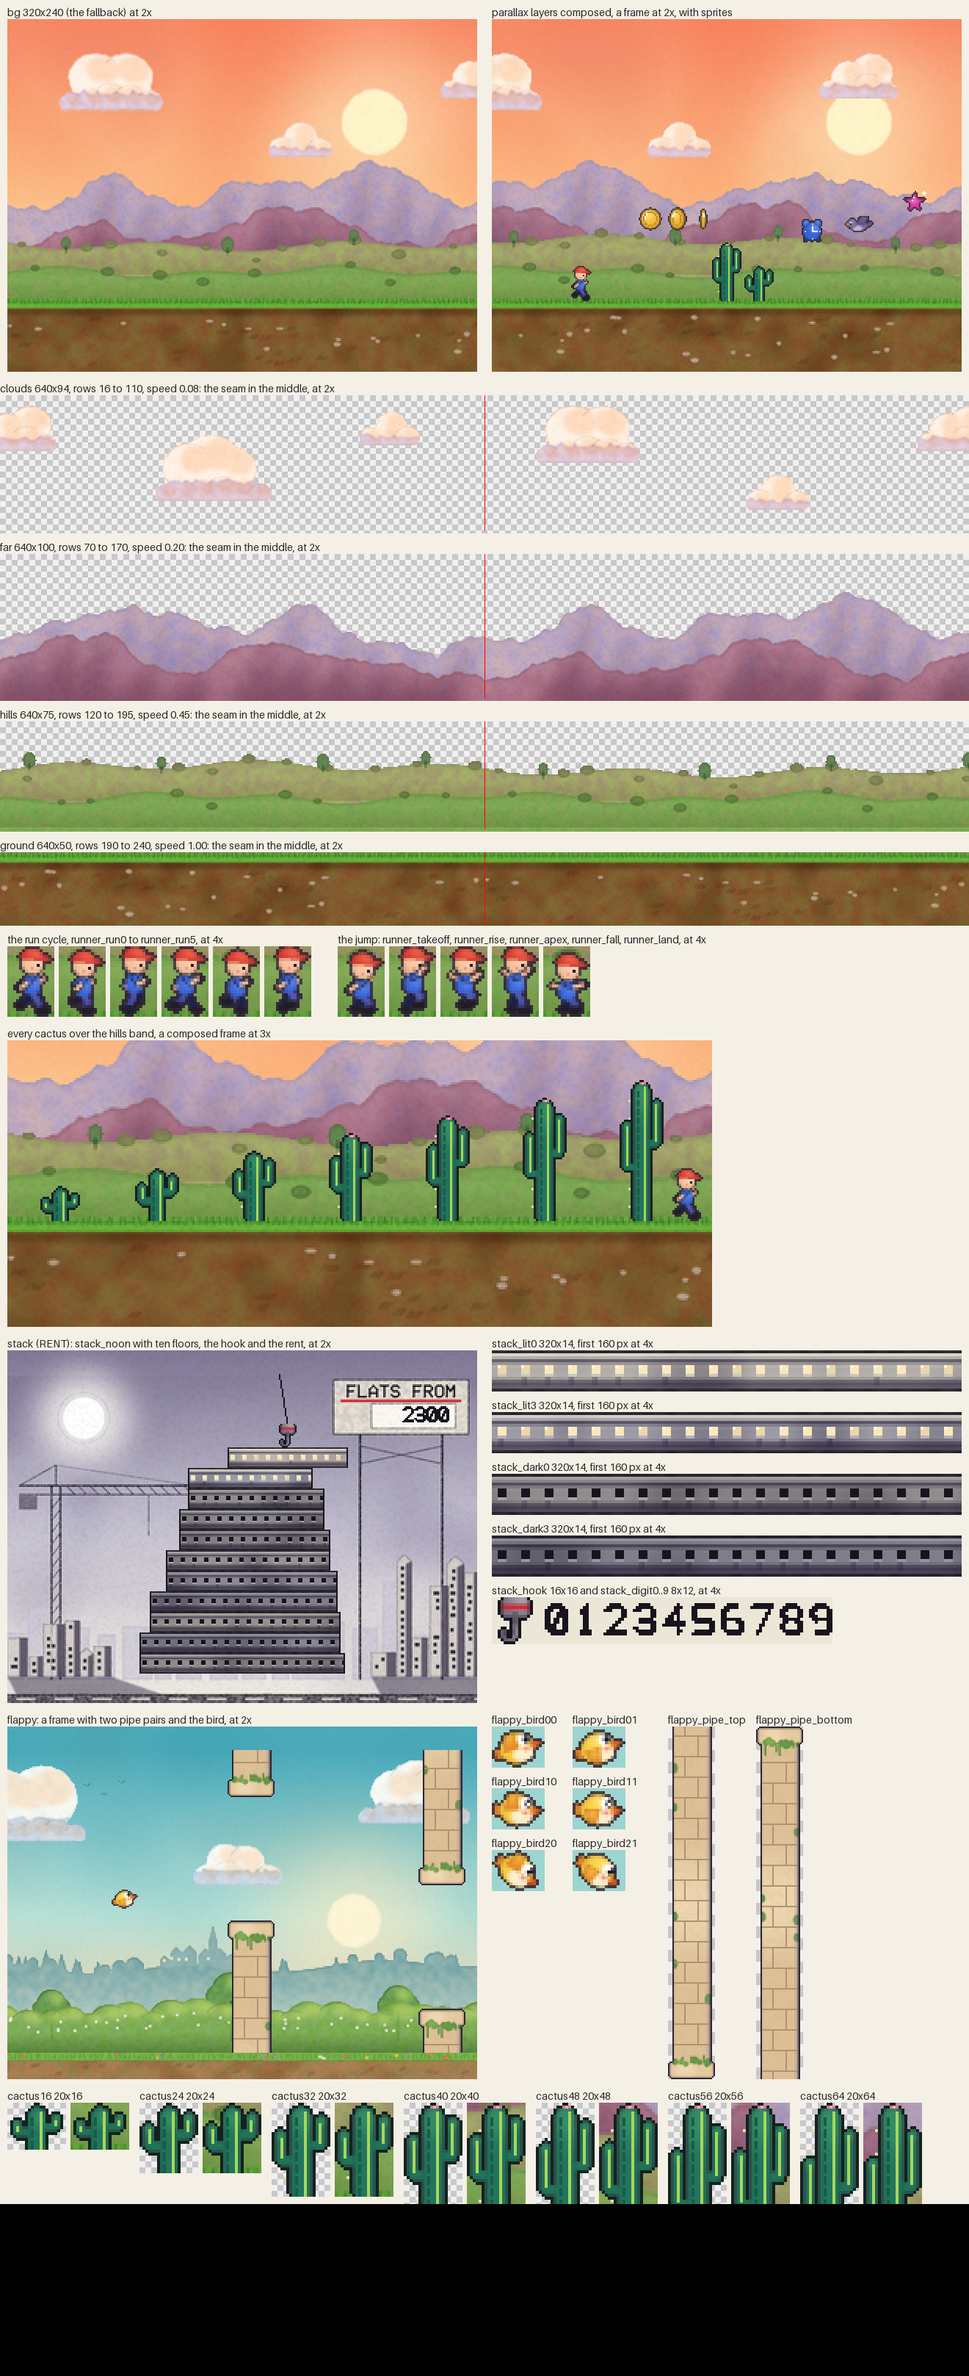
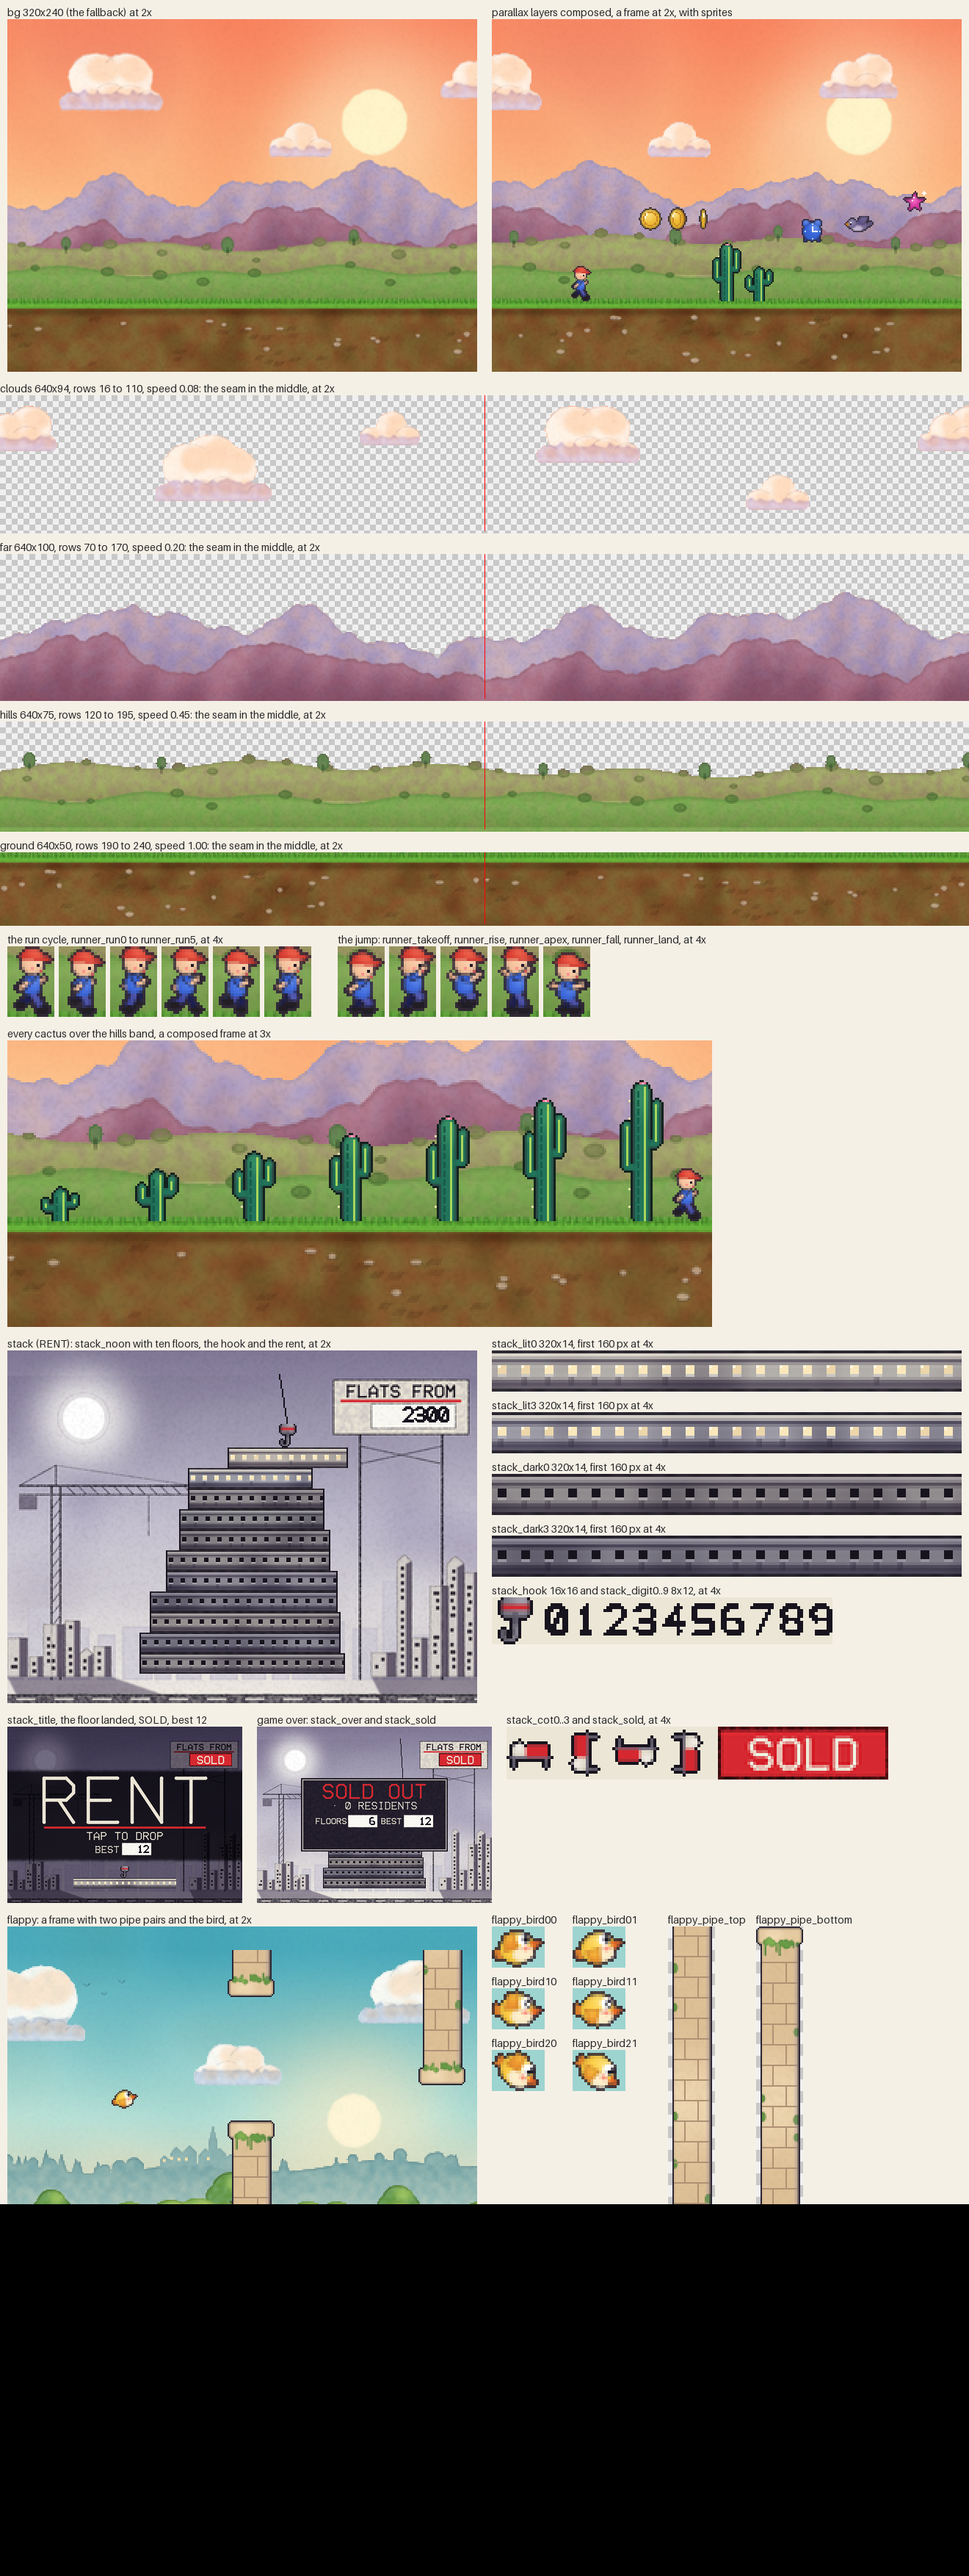
P568 S2b: the cards: title, over, SOLD plate, the cot
art/sets/stack.py paints stack_title (the noon gone dark round its sun, RENT in bone with a red rule, TAP TO
DROP, BEST on a plate), stack_over (SOLD OUT in the accent, 0 RESIDENTS, plates for the floors and the best),
stack_sold (the billboard's plate in the accent) and stack_cot0..3 (an empty bed, its blanket in the accent, a
quarter turn a frame), in the stroke letters of art/letters.py.

The game: the title lowers the first floor on the hook over 1.2 s, then SOLD lands on the billboard; over, the
plate shows SOLD and the card comes after the collapse, with the floors and the best as digits; each cut-off slab
carries a tumbling cot that breaks into 8 grey particles on the street. One number() writes every plate. Tests:
the new pictures' sizes and key, the cot's four frames in the name test, the accent on the SOLD plate, the cot
and the card.

Claude-Session: https://claude.ai/code/session_01FVemmiMnqd3zNGXRssXgkZ

diff --git a/art/sets/stack.py b/art/sets/stack.py
@@ -21,6 +21,11 @@ LIT, DARK = (250, 232, 188), INK  # a window of the show flat, and one where nob
 BOARD = (222, 20, 314, 57)  # the billboard under the score bar: x0, y0, x1, y1
 PLATE = (248, 35, 305, 53)  # its empty number plate; the game writes the rent on it, right-aligned at x 301, y 38
 DIGIT_W, DIGIT_H = 8, 12
+SOLD = (58, 18)  # the plate at game over, in the accent, drawn over the empty one at (248, 36)
+CARD = (200, 100)  # the over card, at (60, 70); its plates for the floors and the best at x 64 and 140, y 50
+CARD_PLATES = ((64, 50), (140, 50))
+TITLE_PLATE = (156, 158)  # the title's plate for the best
+PLATE_W, PLATE_H = 40, 17
 
 
 def noon_at(y):
@@ -219,8 +224,89 @@ def paint_digit(d):
     return out
 
 
+def words(s, text, cx, y, unit, width, colour):
+    """Stroke letters on strip s, centred on game x cx, the top at game y."""
+    m = s.mask()
+    write(m, text, (cx - text_width(text, unit) / 2) * s.S, y * s.S, unit * s.S, width * s.S)
+    lay(s.rgb, m, colour)
+
+
+def plate(s, x, y, w=PLATE_W, h=PLATE_H):
+    """A small empty number plate in bone with a pencil border, for digits the game writes."""
+    m = s.mask()
+    s.polygon(m, [(x, y), (x + w, y), (x + w, y + h), (x, y + h)])
+    lay(s.rgb, m, (250, 248, 242))
+    s.pencil([([(x, y), (x + w, y), (x + w, y + h), (x, y + h), (x, y)], 2)], strength=0.9, colour=INK)
+
+
+def paint_title(noon):
+    """The title, 320 x 240: the noon gone dark round its white sun, RENT in bone with an ink shadow and a red rule,
+    TAP TO DROP, and BEST with a plate. The billboard stays, so the SOLD plate lands on it."""
+    s = Strip(W, 0, H, False, (0, 0, 0))
+    s.rgb = noon.convert("RGB").resize(s.size, Image.LANCZOS)
+    glaze(s.rgb, Image.new("L", s.size, 255), (70, 62, 92), 0.75)
+    m = s.mask()
+    s.polygon(m, [(0, 60), (W, 60), (W, 182), (0, 182)])
+    glaze(s.rgb, blur(s.roughen(m, 3, 0.5, 14), 6), INK, 0.8)  # a band of night across the noon, for the word
+    words(s, "RENT", 163, 73, 10, 4.5, INK)  # the shadow first
+    words(s, "RENT", 160, 70, 10, 4.5, BONE)
+    rule = s.mask()
+    s.polygon(rule, [(50, 136), (270, 136), (270, 138.5), (50, 138.5)])
+    lay(s.rgb, rule, ACCENT)
+    words(s, "TAP TO DROP", 160, 144, 1.6, 1.2, BONE)
+    words(s, "BEST", 136, 163, 1.4, 1.1, BONE)
+    plate(s, *TITLE_PLATE)
+    s.paper(0.06)
+    return s.rgb.resize((W, H), Image.LANCZOS).convert("RGBA")
+
+
+def paint_over():
+    """The over card, 200 x 100: SOLD OUT in the accent, 0 RESIDENTS in bone, and plates for the floors and the
+    best, on an ink wash with a bone border."""
+    w, h = CARD
+    s = Strip(w, 0, h, False, INK)
+    m = s.mask()
+    s.polygon(m, [(0, 0), (w, 0), (w, h), (0, h)])
+    s.wash(m, (40, 34, 50), alpha=0.9, rim=0.0, grain=0.5, cell=10, rough=None, soft=0)
+    border = s.mask()
+    ImageDraw.Draw(border).rectangle((2 * s.S, 2 * s.S, (w - 2) * s.S, (h - 2) * s.S), outline=255, width=s.S)
+    lay(s.rgb, border, BONE)
+    words(s, "SOLD OUT", w / 2, 9, 3, 2.2, ACCENT)
+    words(s, "· 0 RESIDENTS", w / 2, 33, 1.5, 1.1, BONE)
+    words(s, "FLOORS", 41, 55, 1.2, 1.0, BONE)
+    words(s, "BEST", 123, 55, 1.2, 1.0, BONE)
+    for x, y in CARD_PLATES:
+        plate(s, x, y)
+    return s.rgb.resize(CARD, Image.LANCZOS).convert("RGBA")
+
+
+def paint_sold():
+    """The plate at game over, 58 x 18: SOLD in bone on the accent, an ink border."""
+    w, h = SOLD
+    s = Strip(w, 0, h, False, ACCENT)
+    words(s, "SOLD", w / 2, 4.5, 1.6, 1.4, BONE)
+    s.pencil([([(0.5, 0.5), (w - 0.5, 0.5), (w - 0.5, h - 0.5), (0.5, h - 0.5), (0.5, 0.5)], 4)], strength=1.0,
+             colour=INK)
+    return s.rgb.resize(SOLD, Image.LANCZOS).convert("RGBA")
+
+
+def paint_cot(degrees):
+    """A cot, 16 x 16 keyed, turned by degrees: an empty bed, its blanket in the accent. It rides a cut-off slab
+    down to the street: nobody was ever in it."""
+    sp = Sprite(16, 16)
+    sp.part(sp.shape("line", (2.5, 9.6), (2.5, 12.6), width=1.1), (96, 92, 106), rim=0)
+    sp.part(sp.shape("line", (13.5, 9.6), (13.5, 12.6), width=1.1), (96, 92, 106), rim=0)
+    sp.part(sp.shape("rect", 1.5, 8.6, 14.5, 10.2, 0.4), (110, 104, 120), rim=0.1)
+    sp.part(sp.shape("rect", 2, 5.6, 14, 9, 0.8), BONE, rim=0.3)
+    sp.part(sp.shape("ellipse", 2.4, 4.6, 6.2, 7.4), (250, 246, 236), rim=0.3)
+    sp.part(sp.shape("rect", 6.6, 5.2, 14.2, 9.2, 0.6), ACCENT, rim=0, grain=0)
+    sp.turn(degrees, (8, 8))
+    return sp.cut(ink=INK)
+
+
 def paint_stack():
-    """Every stack picture: the noon backdrop, the lit and the dark floors in turn, the hook, the rent's digits."""
+    """Every stack picture: the noon backdrop, the lit and the dark floors in turn, the hook, the rent's digits, the
+    cot's four turns, the SOLD plate, the title and the over card."""
     pics = {"stack_noon": (paint_noon(), False)}
     for i, colour in enumerate(CONCRETE):
         pics["stack_lit%d" % i] = (paint_flat(colour, True), False)
@@ -229,6 +315,11 @@ def paint_stack():
     pics["stack_hook"] = (paint_hook(), True)
     for d in range(10):
         pics["stack_digit%d" % d] = (paint_digit(d), True)
+    for k in range(4):  # a quarter turn a frame: it tumbles end over end
+        pics["stack_cot%d" % k] = (paint_cot(90 * k), True)
+    pics["stack_sold"] = (paint_sold(), False)
+    pics["stack_title"] = (paint_title(pics["stack_noon"][0]), False)
+    pics["stack_over"] = (paint_over(), False)
     return Painting(pics)
 
 
@@ -281,7 +372,33 @@ def stack_sheet(painting, sheet, y):
         over(strip, pics["stack_digit%d" % k], 18 + k * (DIGIT_W + 2), 2)
     sheet.put("stack_hook 16x16 and stack_digit0..9 8x12, at 4x", strip.resize((strip.width * 4, 64), Image.NEAREST),
               x, at)
-    return y + H * 2 + 32
+    y += H * 2 + 32
+    put = (900 + 140 * 12, 12)
+    title = pics["stack_title"].copy()
+    title.paste(pics["stack_lit0"].crop((0, 0, 140, BLOCK_H)), (90, 206))
+    over(title, pics["stack_hook"], 152, 190)
+    title.paste(pics["stack_sold"], (248, 36))
+    number(title, pics, put[1], TITLE_PLATE)
+    sheet.put("stack_title, the floor landed, SOLD, best 12", title.convert("RGB"), 10, y)
+    end = stack_scene(pics, 6).convert("RGBA")
+    end.paste(pics["stack_sold"], (248, 36))
+    end.paste(pics["stack_over"], (60, 70))
+    for (px, py), value in zip(CARD_PLATES, (6, 12)):
+        number(end, pics, value, (60 + px, 70 + py))
+    sheet.put("game over: stack_over and stack_sold", end.convert("RGB"), 350, y)
+    strip = Image.new("RGB", (4 * 18 + SOLD[0], 18), BONE)
+    for k in range(4):
+        over(strip, pics["stack_cot%d" % k], k * 18, 1)
+    strip.paste(pics["stack_sold"], (72, 0))
+    sheet.put("stack_cot0..3 and stack_sold, at 4x", strip.resize((strip.width * 4, 72), Image.NEAREST), 690, y)
+    return y + H + 32
+
+
+def number(out, pics, value, at):
+    """value in digit pictures on a plate at (x, y), right-aligned, as the game writes it."""
+    x, y = at
+    for k, ch in enumerate(reversed(str(value))):
+        over(out, pics["stack_digit" + ch], x + PLATE_W - 3 - DIGIT_W * (k + 1), y + 3)
 
 
 ART_SET = ArtSet("stack", 563, paint_stack, sheet_fn=stack_sheet, scene_fn=stack_frame, ink_accent=ACCENT)

diff --git a/games/arcade2.py b/games/arcade2.py
@@ -5,7 +5,7 @@ from math import sin
 
 import pictures
 
-from gfx import ACCENT, BLACK, GREEN, GREY, HEIGHT, ORANGE, OVER, RED, WHITE, WIDTH, YELLOW, Game, c565, shade
+from gfx import ACCENT, BEST, BLACK, GREEN, GREY, HEIGHT, ORANGE, OVER, RED, WHITE, WIDTH, YELLOW, Game, c565, shade
 
 W, H = WIDTH, HEIGHT
 
@@ -30,6 +30,11 @@ class Stack(Game):
     SHAKE_MS, FALL_MS, CARD_MS = 160, 250, 500  # the lean starts after the shake, the floors fall, then the card
     RENT, RENT_PER_FLOOR = 900, 140  # what the billboard asks: every floor raises it
     PLATE_RIGHT, PLATE_TOP, DIGIT_W = 301, 38, 8  # the billboard's empty plate in stack_noon; the digits are 8 x 12
+    SOLD_AT = (248, 36)  # stack_sold over that plate when the tower falls
+    CARD_AT = (60, 70)  # stack_over; its plates' right ends and top, for the floors and the best (art/sets/stack.py)
+    CARD_PLATES = ((161, 123), (237, 123))
+    TITLE_PLATE = (193, 161)  # the title's plate for the best
+    LOWER_MS = 1200  # the title's hook lowers the first floor this long
 
     LIT = tuple("stack_lit%d" % i for i in range(8))  # the show flat on top, its windows warm
     DARK = tuple("stack_dark%d" % i for i in range(8))  # every floor below it: nobody lives there
@@ -63,6 +68,8 @@ class Stack(Game):
         for c in self.slabs:
             c[3] += 700 * dt
             c[1] += c[3] * dt
+            if c[1] >= self.BASE:  # the cot on it breaks on the street
+                self.fx.burst(c[0] + c[2] // 2, self.BASE + 8, GREY, 8, 70.0, 0.5, 200.0)
         self.slabs = [c for c in self.slabs if c[1] < self.BASE]
         self.sway_v -= (self.SPRING * self.sway + self.DAMP * self.sway_v) * dt
         self.sway += self.sway_v * dt
@@ -108,25 +115,37 @@ class Stack(Game):
         cv.fill(x, y, w, 2, self.BONE)  # the slab in the sun
         cv.fill(x, y + self.LEVEL_H - 4, w, 3, shade(60, 56, 70, 1))
 
-    def hook(self, cv, x, y):
-        """The cable from the score bar to the hook over the hanging floor's middle (x, y: its top middle). The
+    def hook(self, cv, x, y, top):
+        """The cable from (top, 16) to the hook over the hanging floor's middle (x, y: its top middle). In play the
         cable's top rides the slide, so it leans as the floor swings under it."""
-        cv.line(int(self.x) + self.w // 2, 16, x, y - 12, self.INK)
+        cv.line(top, 16, x, y - 12, self.INK)
         if not pictures.draw(cv, "stack_hook", x - 8, y - 16):
             cv.fill(x - 4, y - 14, 8, 4, GREY)
             cv.fill(x - 1, y - 10, 2, 10, GREY)
 
-    def price(self):
-        return self.RENT + self.RENT_PER_FLOOR * self.score
-
-    def rent(self, cv):
-        """What a flat costs now, on the billboard's plate, right-aligned: one digit picture each, the last first."""
-        price, x = self.price(), self.PLATE_RIGHT
-        while price:  # never 0 at the start: the rent starts at 900
+    def number(self, cv, value, right, top):
+        """value in digit pictures on a plate, right-aligned at right, the last digit first; text on the Mac."""
+        x, rest = right, value
+        while True:
             x -= self.DIGIT_W
-            if not pictures.draw(cv, "stack_digit%d" % (price % 10), x, self.PLATE_TOP):
-                return cv.text(str(self.price()), self.PLATE_RIGHT - 40, self.PLATE_TOP + 2, self.INK)
-            price //= 10
+            if not pictures.draw(cv, "stack_digit%d" % (rest % 10), x, top):
+                return cv.text(str(value), right - 8 * len(str(value)), top + 2, self.INK)
+            rest //= 10
+            if not rest:
+                return
+
+    def draw_title(self, cv):
+        """RENT: the title card, the hook lowering the first floor onto the street over 1.2 s, then the SOLD plate,
+        and the best on its plate."""
+        if not pictures.draw(cv, "stack_title", 0, 0):
+            return Game.draw_title(self, cv)
+        x, w = self.floors[0]
+        y = -self.LEVEL_H + (self.level_y(0) + self.LEVEL_H) * min(self.age, self.LOWER_MS) // self.LOWER_MS
+        self.hook(cv, x + w // 2, y, x + w // 2)
+        self.block(cv, x, y, w, 0, True)
+        if self.age >= self.LOWER_MS:
+            pictures.draw(cv, "stack_sold", *self.SOLD_AT)
+        self.number(cv, BEST.get(self.name, 0), *self.TITLE_PLATE)
 
     def paint_static(self, cv):
         if pictures.draw(cv, "stack_noon", 0, 0):  # the painted noon (P568)
@@ -155,16 +174,24 @@ class Stack(Game):
                     cv.fill(self.floor_x(i), y, self.floors[i][1], self.LEVEL_H, WHITE)
         x, y = self.hanging_x() + shake + int(lean), self.level_y(n) + int(drop)
         if y < H:
-            self.hook(cv, x + self.w // 2, y)
+            self.hook(cv, x + self.w // 2, y, int(self.x) + self.w // 2)
             self.block(cv, x, y, self.w, n, True)
-        for x, y, w, _, i in self.slabs:
-            self.block(cv, x, int(y + drop), w, i, True)  # over, they fall with the tower
-        self.rent(cv)
+        for x, y, w, _, i in self.slabs:  # over, they fall with the tower; each carries a cot, tumbling as it falls
+            self.block(cv, x, int(y + drop), w, i, True)
+            pictures.draw(cv, "stack_cot%d" % (int(y) // 10 % 4), x + w // 2 - 8, int(y + drop) - 12)
+        if self.state != OVER or not pictures.draw(cv, "stack_sold", *self.SOLD_AT):
+            self.number(cv, self.RENT + self.RENT_PER_FLOOR * self.score, self.PLATE_RIGHT, self.PLATE_TOP)
 
     def draw_over(self, cv):
-        """The collapse plays over the live scene first; the card comes after it."""
-        if self.age >= self.CARD_MS:
-            Game.draw_over(self, cv)
+        """The collapse plays over the live scene first; then SOLD OUT, 0 RESIDENTS, the floors and the best."""
+        if self.age < self.CARD_MS:
+            return
+        if not pictures.draw(cv, "stack_over", *self.CARD_AT):
+            return Game.draw_over(self, cv)
+        for (right, top), value in zip(self.CARD_PLATES, (self.score, BEST.get(self.name, 0))):
+            self.number(cv, value, right, top)
+        if self.age >= self.OVER_MS and (self.age // 400) % 2 == 0:
+            cv.text("tap to retry", self.CARD_AT[0] + 52, self.CARD_AT[1] + 84, self.BONE)
 
 
 class Cave(Game):

diff --git a/tests/test_paint.py b/tests/test_paint.py
@@ -141,13 +141,15 @@ class RentTest(unittest.TestCase):
         sizes = {"stack_noon": (320, 240, False), "stack_hook": (16, 16, True)}
         sizes.update({"stack_%s%d" % (kind, i): (320, 14, False) for kind in ("lit", "dark") for i in range(8)})
         sizes.update({"stack_digit%d" % d: (8, 12, True) for d in range(10)})
+        sizes.update({"stack_cot%d" % k: (16, 16, True) for k in range(4)})
+        sizes.update({"stack_sold": (58, 18, False), "stack_title": (320, 240, False), "stack_over": (200, 100, False)})
         shown = {name: img.size + (keyed,) for name, (img, keyed) in self.painting.pictures.items()}
         self.assertEqual(shown, sizes)  # and the night's stack_bg, stack_block and stack_mover are gone
 
     def test_every_name_the_game_asks_for_is_drawn(self):
         names = re.findall(r'"(stack_[a-z]+)(%d)?"', read("games", "arcade2.py"))
         self.assertIn(("stack_digit", "%d"), names)  # the game asks by the patterns, so the test reads them
-        count = {"stack_digit": 10}  # every other pattern runs over the eight floors
+        count = {"stack_digit": 10, "stack_cot": 4}  # every other pattern runs over the eight floors
         for stem, pattern in names:
             for name in [stem + str(i) for i in range(count.get(stem, 8))] if pattern else [stem]:
                 with self.subTest(name=name):
@@ -155,8 +157,10 @@ class RentTest(unittest.TestCase):
 
     def test_one_accent(self):
         self.assertIn("ACCENT = c565(%d, %d, %d)" % ACCENT, read("games", "gfx.py"))  # the board's copy of it
-        hook = {p[:3] for p in q565(self.painting.pictures["stack_hook"][0]).get_flattened_data() if p[3]}
-        self.assertIn(board_colour(ACCENT), hook)  # the hook's red band
+        for name in ("stack_hook", "stack_sold", "stack_cot0", "stack_over"):  # its band, the plate, the blanket, SOLD OUT
+            with self.subTest(name=name):
+                shown = {p[:3] for p in q565(self.painting.pictures[name][0]).get_flattened_data() if p[3]}
+                self.assertIn(board_colour(ACCENT), shown)
 
     def test_letters_fit_their_cells_and_differ(self):
         masks = set()

diff --git a/games/art_index.py b/games/art_index.py
@@ -66,6 +66,13 @@ ART = {
     "stack_digit7": (8, 12, "art/stack_digit7.bin"),
     "stack_digit8": (8, 12, "art/stack_digit8.bin"),
     "stack_digit9": (8, 12, "art/stack_digit9.bin"),
+    "stack_cot0": (16, 16, "art/stack_cot0.bin"),
+    "stack_cot1": (16, 16, "art/stack_cot1.bin"),
+    "stack_cot2": (16, 16, "art/stack_cot2.bin"),
+    "stack_cot3": (16, 16, "art/stack_cot3.bin"),
+    "stack_sold": (58, 18, "art/stack_sold.bin"),
+    "stack_title": (320, 240, "art/stack_title.bin"),
+    "stack_over": (200, 100, "art/stack_over.bin"),
     "flappy_sky": (320, 240, "art/flappy_sky.bin"),
     "flappy_clouds": (640, 100, "art/flappy_clouds.bin"),
     "flappy_far": (640, 90, "art/flappy_far.bin"),
